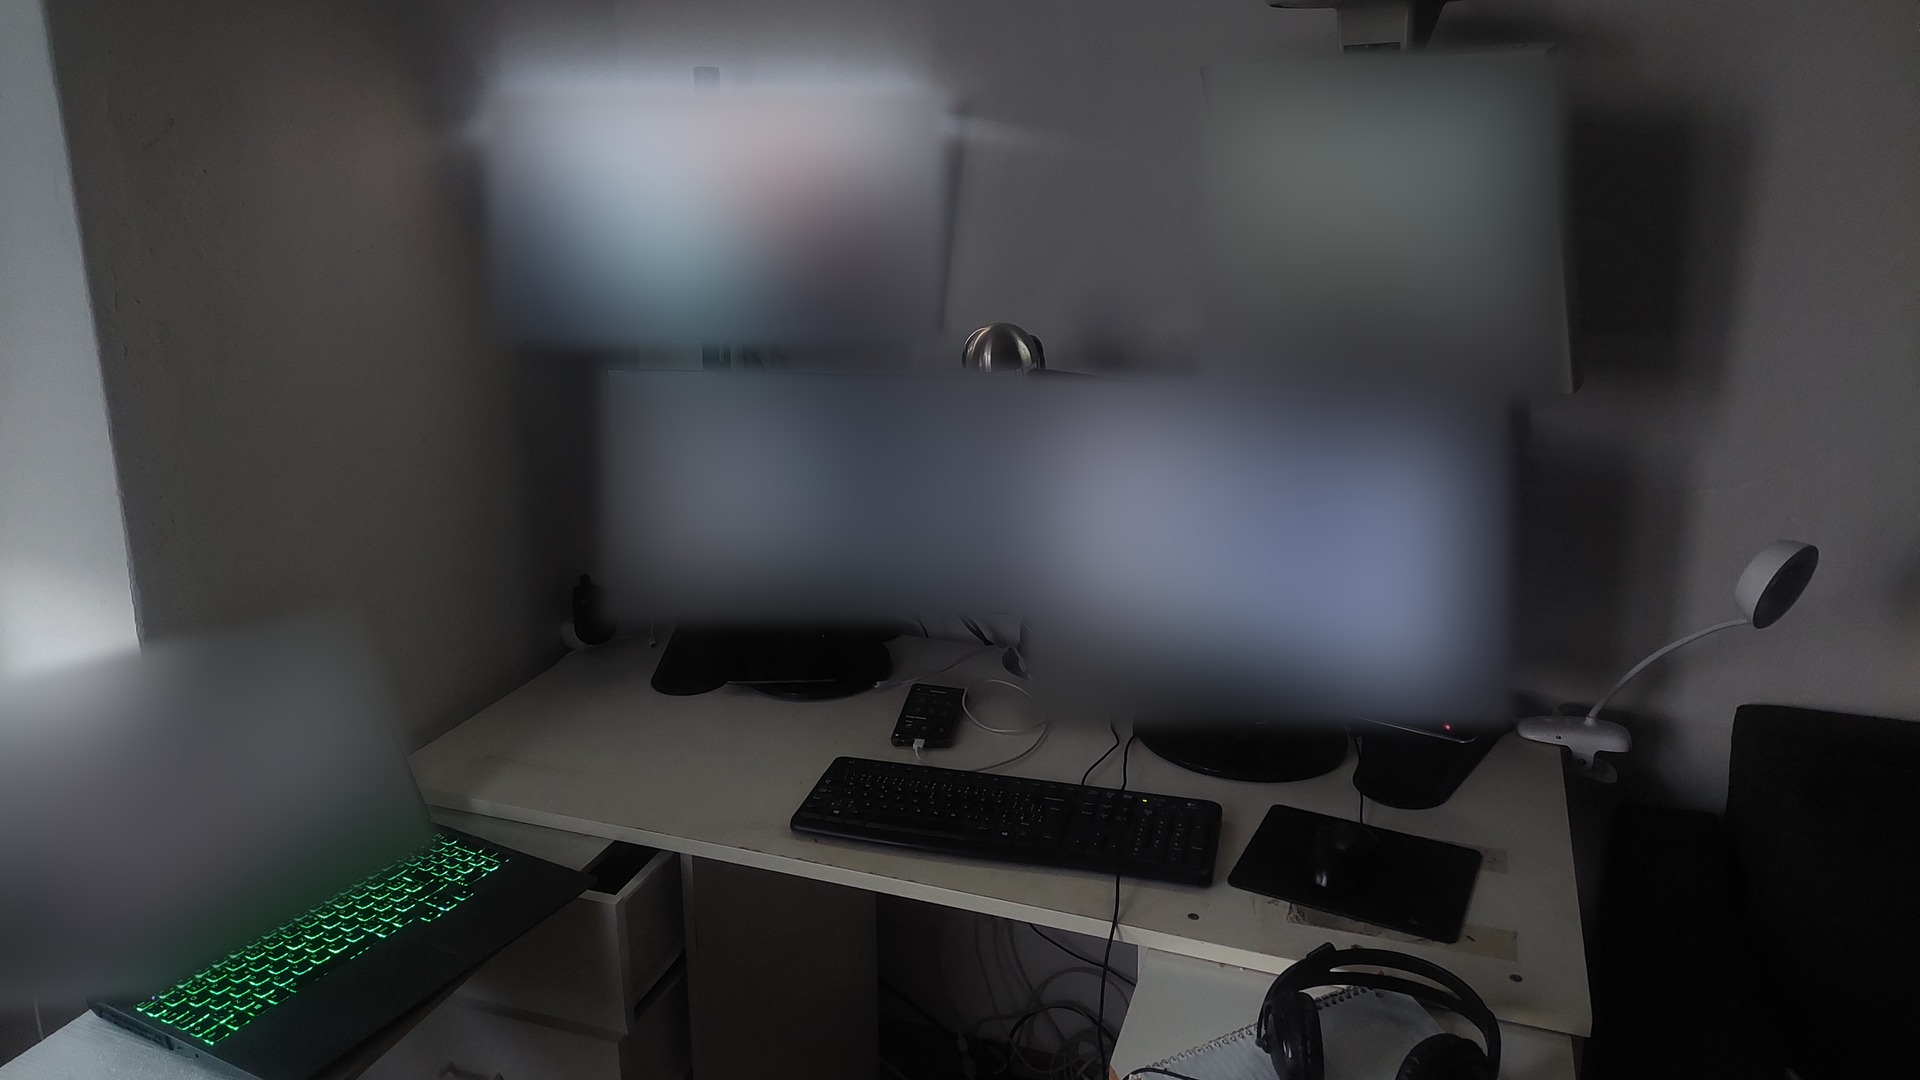
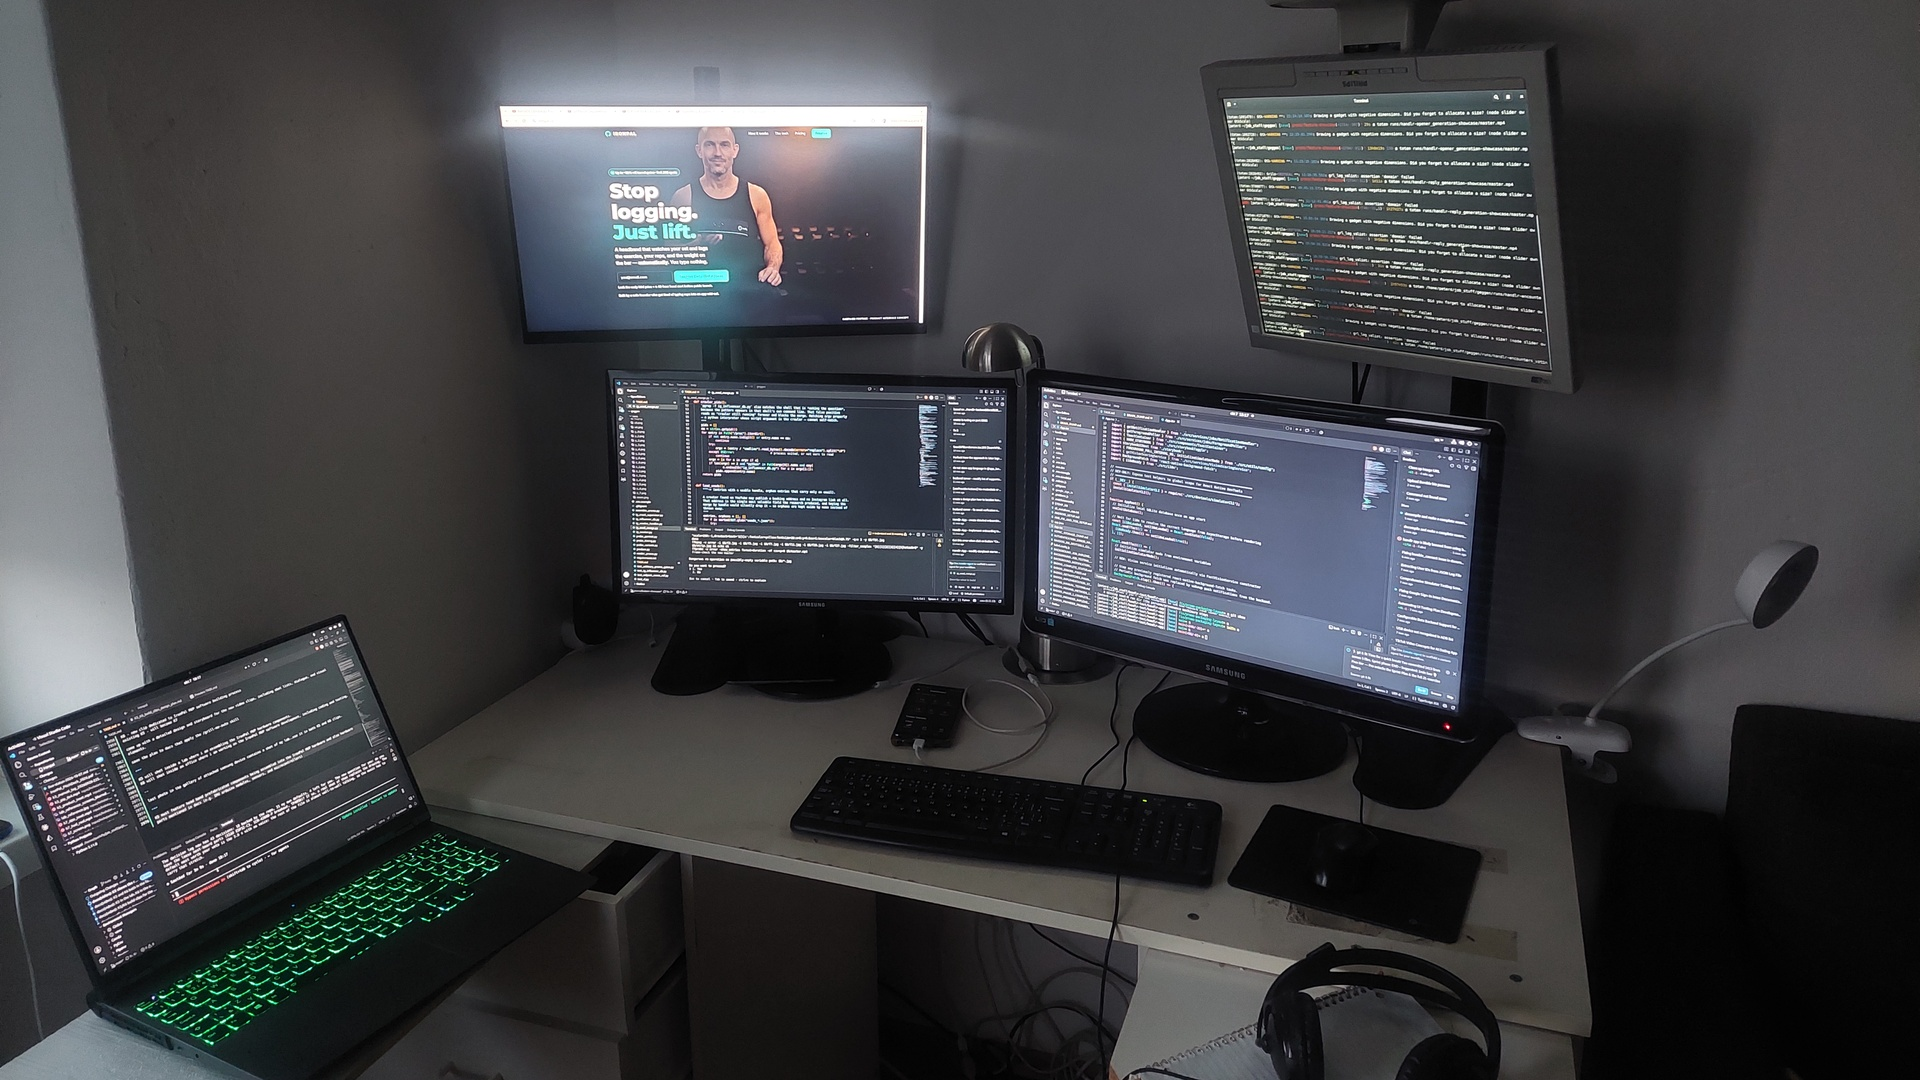
docs(video): K5/K6 lab photo used unblurred
The founder's direction: no blurring. The Flow reference and the K6 still
are now the photo as taken, rotated and cropped only (scripts/k5k6/
prep_lab.py replaces blur_lab.py).

Changed region(s): [[0.25, 0.0306, 0.8125, 0.6722], [0.0, 0.55, 0.25, 0.9472]]

diff --git a/scripts/k5k6/prep_lab.py b/scripts/k5k6/prep_lab.py
@@ -1,0 +1,17 @@
+"""Prepare the founder's lab photo for K5/K6: upright and cropped to 16:9, NOT blurred.
+
+The founder's direction (2026-10-07): use the photo as it is, screens and all. The only changes are
+the EXIF rotation and a 16:9 crop at 1920x1080 for Flow's frame reference and the K6 still.
+See docs/K5_K6_build_clips_design_plan.md §2.1.
+"""
+import os
+from PIL import Image, ImageOps
+
+D = os.path.join(os.path.dirname(__file__), "../../input/kickstarter/k5k6")
+im = ImageOps.exif_transpose(Image.open(os.path.join(D, "lab_reference.jpg"))).convert("RGB")
+W, H = im.size
+ch = int(W * 9 / 16)
+top = min(int(230 * W / 1600), H - ch)  # keeps all five screens and the desk front in frame
+frame = im.crop((0, top, W, top + ch)).resize((1920, 1080), Image.LANCZOS)
+frame.save(os.path.join(D, "lab_reference_flow_16x9.jpg"), quality=95)
+im.save(os.path.join(D, "lab_broll_still.jpg"), quality=95)

diff --git a/docs/K5_K6_build_clips_design_plan.md b/docs/K5_K6_build_clips_design_plan.md
@@ -78,13 +78,12 @@ construction.
 That puts generated screens in frame in both clips, and generated electronics in K5 — the two things
 §2 forbids being *presented as the product*. Five rules keep it honest:
 
-1. **Flow gets a blurred copy of the photo, never the original.** The real screens are full of
-   legible text: code, a terminal, and the IronPal landing page's hero, with its
-   *Stop logging. Just lift.* headline and the founder's image.
-   Handed that, Flow either reproduces it as garbled pseudo-text or paints a fake app. The reference
-   is `input/kickstarter/k5k6/lab_reference_flow_16x9.jpg`: every screen is blurred to a glow with
-   nothing legible, and the frame is cropped to 16:9 at 1920×1080. `scripts/k5k6/blur_lab.py` builds
-   it from the original and is re-runnable.
+1. **Flow gets the photo as it is — not blurred.** The founder's direction, 2026-10-07: the screens
+   stay exactly as photographed — code, a terminal, and the landing page's *Stop logging. Just lift.*
+   hero. The only changes are the EXIF rotation and a 16:9 crop at 1920×1080:
+   `input/kickstarter/k5k6/lab_reference_flow_16x9.jpg`, built by `scripts/k5k6/prep_lab.py`.
+   **What that costs:** Flow may copy the screens' text into the generated room as garbled
+   pseudo-text. The prompt still asks for nothing legible (rule 2), and the take gate below catches it.
 2. **The screens stay lit, behind him and out of focus.** Turning them away is impossible in this
    room, and switching them off would make it not this room. He sits in front of the desk, turned to
    camera, with the glowing screens soft behind him. **A take where any screen carries legible or
@@ -106,11 +105,10 @@ That puts generated screens in frame in both clips, and generated electronics in
    eyeline between the work and the lens.
 
 **The photo is also real footage**, and it belongs in K6 as an establishing still (§4.4, shot 1b):
-the founder's actual desk, the actual code. For that use the **original** goes in, with one change:
-the right-hand wall monitor's terminal shows local paths and another project's logs, so it is blurred
-for privacy, and so is the laptop's session. That file is `input/kickstarter/k5k6/lab_broll_still.jpg`,
-built by the same script. The two code monitors and the landing-page monitor stay as they are: the
-site is public, and its hero image is the same generated founder the film already shows.
+the founder's actual desk, the actual code, **unblurred, as photographed** —
+`input/kickstarter/k5k6/lab_broll_still.jpg`, the original upright at full resolution. The wall
+terminal shows local paths and another project's logs; at a 0.6 s push-in toward the code monitors
+they do not read, but **check the final frame before publishing**.
 
 **The consequence for K7.** The reveal's inset is the AI product still (`S3/selected.jpg`), and it
 now follows two clips of real prototype. **It needs a `DESIGN RENDER` chip** or the cut implies the
@@ -258,7 +256,7 @@ All on a second phone, **16:9, 4K, 24 fps**, landscape, and graded afterwards wi
 | **H6** | **the parts flat-lay** on the left end of the real desk: the ELP board in its case, the Nano 33 BLE, the terry band, kapton tape, the USB cables, the power bank — laid out square, a finger touching each in turn | phone on a top-down arm or held level above; daylight from the window, no harsh lamp; 4K so each part can be cropped for its name tag | 8 s |
 | **H5a–d** | **the assembly, step by step**, at the same spot: the steps of §3.6, one per take | **one step per take**, 3–4 s each, so each can be cut to 0.7 s; macro or top-down, hands entering and leaving frame. **Use a spare band or re-do it for the camera** — the working prototype does not need to be taken apart for this, as long as the steps shown are the steps it was built with | 4 × 4 s |
 | **H3** | ~~prototype 2 on a bench, push-in~~ | **folded into H6 and H5** | — |
-| **R1** | ~~a wide still of the real lab~~ **DONE** — `input/kickstarter/k5k6/lab_reference.jpg`, supplied by the founder 2026-10-07; the Flow copy has its screens blurred (§2.1) | — | — |
+| **R1** | ~~a wide still of the real lab~~ **DONE** — `input/kickstarter/k5k6/lab_reference.jpg`, supplied by the founder 2026-10-07; used unblurred (§2.1) | — | — |
 | **H4** | prototype 2 worn: the band goes on, cable over the shoulder to the A52 in the pocket | tripod, waist up, he turns once to show the cable | 5 s — **shot 6e**, no longer spare |
 
 **The real founder is on screen in H1 and H4, next to a generated Peter minted from his photos.**
@@ -409,8 +407,8 @@ opening, the hand rules, the bandless head, the one-speaker audio block — and 
 with a seated medium shot in the founder's lab. The rules of §2.1 are written into each.
 Paste as **plain text**: markup reaches Flow as prompt text (§5.12). Add the **`Peter Pitch`**
 character via *Add ingredients* and keep the name in the pasted text, then add
-**`input/kickstarter/k5k6/lab_reference_flow_16x9.jpg`** — the founder's lab with its screens
-blurred — as the frame reference for **both** clips. After a refusal, **retry before
+**`input/kickstarter/k5k6/lab_reference_flow_16x9.jpg`** — the founder's lab, unblurred, as
+photographed — as the frame reference for **both** clips. After a refusal, **retry before
 rewording** — policy refusals are free and often clear on a retry (runbook §0).
 
 The wardrobe clause drops the shorts and trainers: he is seated and framed from the waist up, so
@@ -458,7 +456,7 @@ drops (§3.4). If the line overruns 10 s, cut *"So:"* in K5, or *"Then"* in K6.
 
 1. **The real shoots first** (H1–H5, S1–S5). They are free, **S4
    decides what K6's shot 5 is**, and the lab reference is already built
-   (`scripts/k5k6/blur_lab.py`), so Flow can be opened as soon as the shoots are done.
+   (`scripts/k5k6/prep_lab.py`), so Flow can be opened as soon as the shoots are done.
 2. **The three Flow clips** — K5, K5b (silent assembly) and K6: 3 renders, plus re-rolls. Render
    K5b first: it is the one most likely to need the split fallback (§6.1b).
 3. **Graphics:** the chips, the dead-ends cards, the animated IMU trace — HTML renders, like the end card.

diff --git a/docs/K5_K6_build_clips_design_plan_grilled.md b/docs/K5_K6_build_clips_design_plan_grilled.md
@@ -64,8 +64,7 @@ band before it would also breach Q6.
 
 **Q11. Where are they set?** **Both in the founder's real lab** — K5 assembling the hardware, K6
 coding and testing — one room, from one photo he supplied (`input/kickstarter/k5k6/lab_reference.jpg`; replaced by
-his updated shot of the same corner at 18:17 the same day, masks in `scripts/k5k6/blur_lab.py`
-re-measured to match).
+his updated shot of the same corner at 18:17 the same day, used unblurred, `scripts/k5k6/prep_lab.py`).
 **EVIDENCE** — the founder's direction, 2026-10-07 (TASK.md, two entries: first lab and office, then
 *"use it in both K5 and K6"*). *Superseded twice:* first both in the gym, then a separate lab and
 office; Branch G is how the room keeps Q6's protection.
@@ -160,12 +159,11 @@ at the same desk, so the cut matches by construction.
 hands resting. **EVIDENCE** — hands in motion near small objects are the film's worst failure (K7:
 eight takes; K6 broke its gesture guards), and working splits the eyeline from the lens.
 
-**Q32. The room has five lit screens. What does Flow see?** A copy with every screen blurred to a
-glow (`scripts/k5k6/blur_lab.py` → `lab_reference_flow_16x9.jpg`), and a prompt that keeps them lit,
-behind him, out of focus, with nothing legible; a take with pseudo-text on any screen is a re-roll.
-**EVIDENCE** — the original shows legible code, a terminal and the landing page; Flow cannot render
-text under the no-writing rule and garbles it, and a garbled screen would be a generated app. Turning
-the screens off or away would stop it being this room.
+**Q32. The room has five lit screens. What does Flow see?** The photo **unblurred**, as
+photographed, cropped to 16:9 (`scripts/k5k6/prep_lab.py`). **EVIDENCE** — the founder's explicit
+direction, 2026-10-07 (*"don't blur it like you did last time"*), reversing the blurred copy this
+question first chose. The prompt still asks for nothing legible on the generated screens, and a
+take with pseudo-text is a re-roll. *Risk now carried by the gate, not the reference.*
 
 **Q33. Wardrobe for the lab and office?** The same black tank top, bare head; shorts and trainers
 dropped from the prompt because they are out of shot. **ASSUMED** — continuity of the man across
@@ -189,7 +187,7 @@ consecutive clips in one room at one size can read as one long clip; the real cu
 carry most of the difference.
 
 **Q37. Does the photo also appear as real footage?** Yes — as K6 shot 1b, a 0.6 s establishing still,
-with the wall terminal and the laptop session blurred for privacy (`lab_broll_still.jpg`).
+unblurred, as the founder directed (`lab_broll_still.jpg`); check the final frame before publishing.
 **ASSUMED** — it is the only real image of the founder's workspace, and *"use it in both clips"*
 reads as wanting it seen. *Against:* "use it" may have meant only as the reference; the shot is
 0.6 s and drops without touching anything else.
